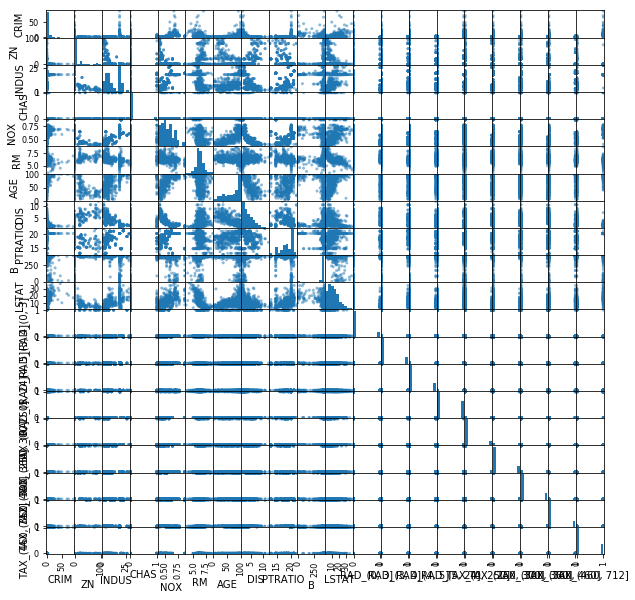
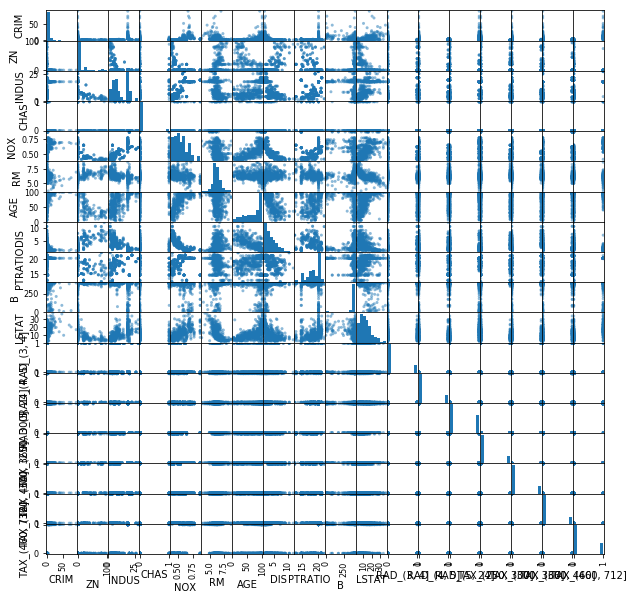
add drop_first

diff --git a/README.md b/README.md
@@ -62,8 +62,8 @@ bins = [0, 250, 300, 360, 460, 712]
 bins_tax = pd.cut(boston_features['TAX'], bins)
 bins_tax = bins_tax.cat.as_unordered()
 
-tax_dummy = pd.get_dummies(bins_tax, prefix="TAX")
-rad_dummy = pd.get_dummies(bins_rad, prefix="RAD")
+tax_dummy = pd.get_dummies(bins_tax, prefix="TAX", drop_first=True)
+rad_dummy = pd.get_dummies(bins_rad, prefix="RAD", drop_first=True)
 boston_features = boston_features.drop(["RAD","TAX"], axis=1)
 boston_features = pd.concat([boston_features, rad_dummy, tax_dummy], axis=1)
 ```
@@ -106,11 +106,9 @@ boston_features.head()
       <th>PTRATIO</th>
       <th>B</th>
       <th>LSTAT</th>
-      <th>RAD_(0, 3]</th>
       <th>RAD_(3, 4]</th>
       <th>RAD_(4, 5]</th>
       <th>RAD_(5, 24]</th>
-      <th>TAX_(0, 250]</th>
       <th>TAX_(250, 300]</th>
       <th>TAX_(300, 360]</th>
       <th>TAX_(360, 460]</th>
@@ -131,8 +129,6 @@ boston_features.head()
       <td>15.3</td>
       <td>396.90</td>
       <td>4.98</td>
-      <td>1</td>
-      <td>0</td>
       <td>0</td>
       <td>0</td>
       <td>0</td>
@@ -154,11 +150,9 @@ boston_features.head()
       <td>17.8</td>
       <td>396.90</td>
       <td>9.14</td>
-      <td>1</td>
       <td>0</td>
       <td>0</td>
       <td>0</td>
-      <td>1</td>
       <td>0</td>
       <td>0</td>
       <td>0</td>
@@ -177,11 +171,9 @@ boston_features.head()
       <td>17.8</td>
       <td>392.83</td>
       <td>4.03</td>
-      <td>1</td>
       <td>0</td>
       <td>0</td>
       <td>0</td>
-      <td>1</td>
       <td>0</td>
       <td>0</td>
       <td>0</td>
@@ -200,11 +192,9 @@ boston_features.head()
       <td>18.7</td>
       <td>394.63</td>
       <td>2.94</td>
-      <td>1</td>
       <td>0</td>
       <td>0</td>
       <td>0</td>
-      <td>1</td>
       <td>0</td>
       <td>0</td>
       <td>0</td>
@@ -223,11 +213,9 @@ boston_features.head()
       <td>18.7</td>
       <td>396.90</td>
       <td>5.33</td>
-      <td>1</td>
       <td>0</td>
       <td>0</td>
       <td>0</td>
-      <td>1</td>
       <td>0</td>
       <td>0</td>
       <td>0</td>
@@ -339,20 +327,20 @@ boston_cont.corr()
     <tr>
       <th>CRIM</th>
       <td>1.000000</td>
-      <td>-0.199458</td>
-      <td>0.404471</td>
-      <td>-0.055295</td>
-      <td>0.417521</td>
-      <td>-0.219940</td>
-      <td>0.350784</td>
-      <td>-0.377904</td>
-      <td>0.288250</td>
-      <td>-0.377365</td>
-      <td>0.452220</td>
+      <td>-0.200469</td>
+      <td>0.406583</td>
+      <td>-0.055892</td>
+      <td>0.420972</td>
+      <td>-0.219247</td>
+      <td>0.352734</td>
+      <td>-0.379670</td>
+      <td>0.289946</td>
+      <td>-0.385064</td>
+      <td>0.455621</td>
     </tr>
     <tr>
       <th>ZN</th>
-      <td>-0.199458</td>
+      <td>-0.200469</td>
       <td>1.000000</td>
       <td>-0.533828</td>
       <td>-0.042697</td>
@@ -366,7 +354,7 @@ boston_cont.corr()
     </tr>
     <tr>
       <th>INDUS</th>
-      <td>0.404471</td>
+      <td>0.406583</td>
       <td>-0.533828</td>
       <td>1.000000</td>
       <td>0.062938</td>
@@ -380,7 +368,7 @@ boston_cont.corr()
     </tr>
     <tr>
       <th>CHAS</th>
-      <td>-0.055295</td>
+      <td>-0.055892</td>
       <td>-0.042697</td>
       <td>0.062938</td>
       <td>1.000000</td>
@@ -394,7 +382,7 @@ boston_cont.corr()
     </tr>
     <tr>
       <th>NOX</th>
-      <td>0.417521</td>
+      <td>0.420972</td>
       <td>-0.516604</td>
       <td>0.763651</td>
       <td>0.091203</td>
@@ -408,7 +396,7 @@ boston_cont.corr()
     </tr>
     <tr>
       <th>RM</th>
-      <td>-0.219940</td>
+      <td>-0.219247</td>
       <td>0.311991</td>
       <td>-0.391676</td>
       <td>0.091251</td>
@@ -422,7 +410,7 @@ boston_cont.corr()
     </tr>
     <tr>
       <th>AGE</th>
-      <td>0.350784</td>
+      <td>0.352734</td>
       <td>-0.569537</td>
       <td>0.644779</td>
       <td>0.086518</td>
@@ -436,7 +424,7 @@ boston_cont.corr()
     </tr>
     <tr>
       <th>DIS</th>
-      <td>-0.377904</td>
+      <td>-0.379670</td>
       <td>0.664408</td>
       <td>-0.708027</td>
       <td>-0.099176</td>
@@ -450,7 +438,7 @@ boston_cont.corr()
     </tr>
     <tr>
       <th>PTRATIO</th>
-      <td>0.288250</td>
+      <td>0.289946</td>
       <td>-0.391679</td>
       <td>0.383248</td>
       <td>-0.121515</td>
@@ -464,7 +452,7 @@ boston_cont.corr()
     </tr>
     <tr>
       <th>B</th>
-      <td>-0.377365</td>
+      <td>-0.385064</td>
       <td>0.175520</td>
       <td>-0.356977</td>
       <td>0.048788</td>
@@ -478,7 +466,7 @@ boston_cont.corr()
     </tr>
     <tr>
       <th>LSTAT</th>
-      <td>0.452220</td>
+      <td>0.455621</td>
       <td>-0.412995</td>
       <td>0.603800</td>
       <td>-0.053929</td>
